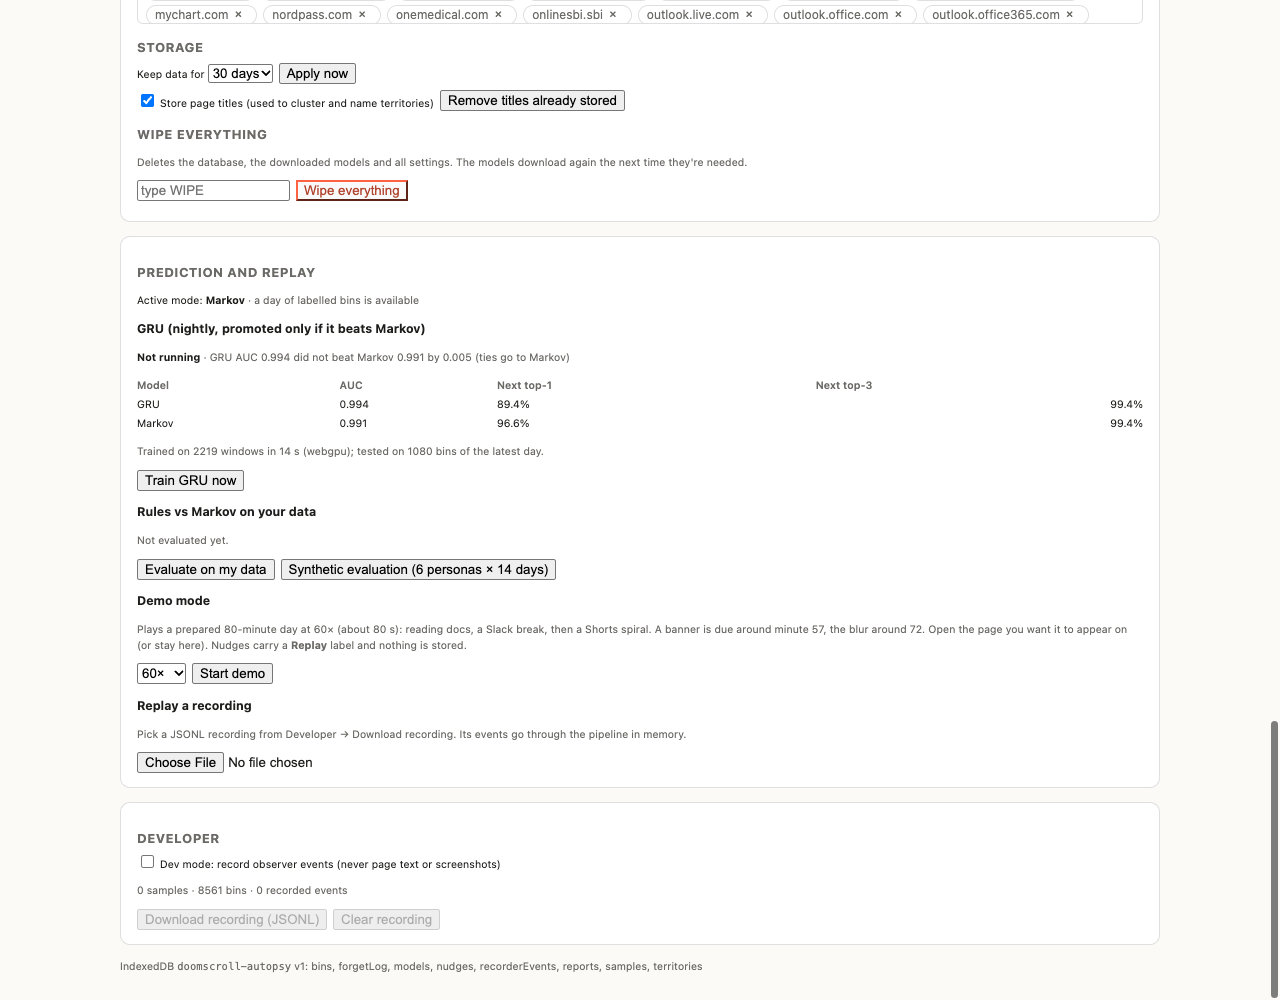
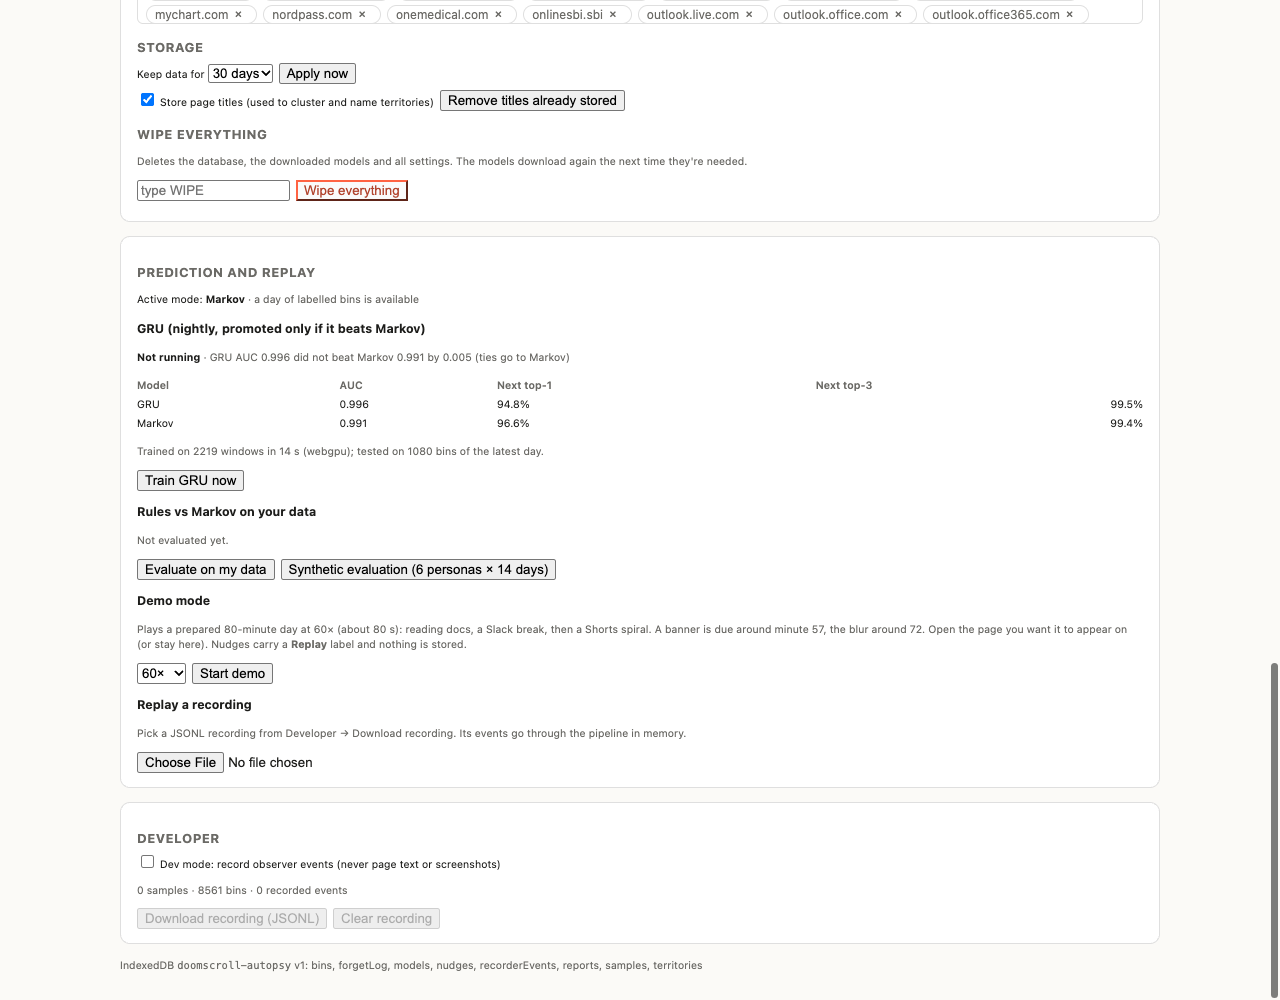
M8.5: forget a single capture
Dashboard lists the 20 most recent items; Forget deletes one sample, recomputes its territory and logs only the kind. Bins stay (they hold no item identity). D-65.

diff --git a/extension/entrypoints/dashboard/privacy.tsx b/extension/entrypoints/dashboard/privacy.tsx
@@ -1,5 +1,5 @@
 import { useEffect, useState } from 'preact/hooks';
-import { getAll } from '@/lib/db';
+import { getAll, getByTs, type SampleRecord } from '@/lib/db';
 import { send } from '@/lib/messaging';
 import { pauseUntil, type PauseOption } from '@/lib/observer/pause';
 import { addDomain, addKeyword, listEntries, removeEntry } from '@/lib/privacy/blocklist-edit';
@@ -37,6 +37,13 @@ export function Privacy() {
   const [filter, setFilter] = useState('');
   const [wipeText, setWipeText] = useState('');
   const [log, setLog] = useState<Array<{ ts: number; text: string }>>([]);
+  const [recent, setRecent] = useState<SampleRecord[]>([]);
+
+  const refreshRecent = async () => {
+    const now = Date.now();
+    const rows = (await getByTs('samples', now - 24 * 3600_000, now)) as SampleRecord[];
+    setRecent(rows.sort((a, b) => b.ts - a.ts).slice(0, 20));
+  };
 
   const refreshLog = async () =>
     setLog(
@@ -49,6 +56,7 @@ export function Privacy() {
   useEffect(() => {
     void getSettings().then(setSettings);
     void refreshLog();
+    void refreshRecent();
     return onSettingsChanged(setSettings);
   }, []);
 
@@ -89,6 +97,13 @@ export function Privacy() {
       const r = await send('background', 'privacy-forget-site', { site, alwaysSkip });
       setSite('');
       return describe(r) + (alwaysSkip ? ' The site is now on your blocklist.' : '');
+    });
+
+  const forgetOne = (id: number) =>
+    run(async () => {
+      const r = await send('background', 'privacy-forget-capture', { id });
+      await refreshRecent();
+      return r ? 'Forgot that item. Its territory was updated; the half-minute activity totals around it stay.' : 'That item was already gone.';
     });
 
   const saveBlocklist = (edits: Settings['blocklist']) => updateSettings({ blocklist: edits });
@@ -154,6 +169,37 @@ export function Privacy() {
           <input type="checkbox" checked={alwaysSkip} onChange={(e) => setAlwaysSkip(e.currentTarget.checked)} /> Always skip this site from now on
         </label>
         <button disabled={busy || !site.trim()} onClick={forgetSite}>Forget site</button>
+      </div>
+
+      <h2>Forget one item</h2>
+      <p class="muted">The 20 most recent items from the last day. Forgetting one deletes its stored vector and details and updates its territory; the half-minute activity totals around it stay (they hold no content).</p>
+      <div id="recent-items">
+        {recent.length === 0 ? (
+          <p class="muted">Nothing observed in the last day.</p>
+        ) : (
+          <table>
+            <tbody>
+              {recent.map((r) => (
+                <tr key={r.id}>
+                  <td class="muted">{new Date(r.ts).toLocaleTimeString([], { hour: '2-digit', minute: '2-digit' })}</td>
+                  <td style="text-align:left">
+                    {r.origin.replace(/^https?:\/\/(www\.)?/, '')}
+                    {r.path}
+                    {r.title ? <span class="muted"> · {r.title}</span> : null}
+                  </td>
+                  <td>
+                    <button disabled={busy} aria-label={`Forget item at ${new Date(r.ts).toLocaleTimeString()}`} onClick={() => void forgetOne(r.id!)}>
+                      Forget
+                    </button>
+                  </td>
+                </tr>
+              ))}
+            </tbody>
+          </table>
+        )}
+        <button disabled={busy} onClick={() => void refreshRecent()}>
+          Refresh list
+        </button>
       </div>
 
       <h2>Blocklist</h2>

diff --git a/extension/lib/privacy/privacy.test.ts b/extension/lib/privacy/privacy.test.ts
@@ -5,7 +5,7 @@ import { ensureReports } from '@/lib/metrics/service';
 import { binsFrom, territory } from '@/lib/metrics/testutil';
 import { dayStart } from '@/lib/metrics/time';
 import { addDomain, addKeyword, listEntries, normalizeDomain, removeEntry } from './blocklist-edit';
-import { forgetRange, forgetSite, originMatchesSite, siteKey } from './forget';
+import { forgetCapture, forgetRange, forgetSite, originMatchesSite, siteKey } from './forget';
 import { applyRetention, stripTitles } from './retention';
 import { DEFAULT_SETTINGS } from '@/lib/settings';
 
@@ -129,6 +129,40 @@ describe('forgetSite', () => {
 
   it('rejects something that is not a site', async () => {
     await expect(forgetSite('hello')).rejects.toThrow();
+  });
+});
+
+describe('forgetCapture', () => {
+  it('removes one sample, keeps the bins and the other samples, recomputes the territory, logs only the kind', async () => {
+    await seed();
+    const reels = (await getAll('samples')).filter((x) => x.territoryId === 'reels').sort((a, b) => a.ts - b.ts);
+    const binsBefore = await count('bins');
+    const centroidBefore = (await get('territories', 'reels'))!.centroid;
+    const r = await forgetCapture(reels[3]!.id!);
+    expect(r).toMatchObject({ samples: 1, bins: 0, nudges: 0, territoriesUpdated: 1, territoriesRemoved: 0 });
+    expect(await get('samples', reels[3]!.id!)).toBeUndefined();
+    expect((await getAll('samples')).filter((x) => x.territoryId === 'reels')).toHaveLength(14);
+    expect(await count('bins')).toBe(binsBefore);
+    const t = (await get('territories', 'reels'))!;
+    expect(t.size).toBe(14);
+    expect(t.centroid[1]).toBeCloseTo(centroidBefore[1]!, 6); // the other members point the same way
+    expect(await getAll('forgetLog')).toEqual([expect.objectContaining({ kind: 'capture' })]);
+    expect(Object.keys((await getAll('forgetLog'))[0]!).sort()).toEqual(['id', 'kind', 'ts']);
+  });
+
+  it('removes an unconfirmed territory when its last item goes, and keeps a confirmed one dormant', async () => {
+    await seed();
+    for (const x of (await getAll('samples')).filter((x) => x.territoryId === 'reels')) await forgetCapture(x.id!);
+    expect(await get('territories', 'reels')).toBeUndefined();
+    const news = (await getAll('samples')).filter((x) => x.territoryId === 'news');
+    for (const x of news) await forgetCapture(x.id!);
+    expect((await get('territories', 'news'))).toMatchObject({ size: 0, label: 'shallow' });
+  });
+
+  it('returns null for an item that is already gone', async () => {
+    await seed();
+    expect(await forgetCapture(999_999)).toBeNull();
+    expect(await getAll('forgetLog')).toEqual([]);
   });
 });
 

diff --git a/extension/lib/privacy/forget.ts b/extension/lib/privacy/forget.ts
@@ -145,6 +145,23 @@ export async function forgetSite(siteInput: string, now = Date.now()): Promise<F
   return cascade(removed, { kind: 'site', site }, now);
 }
 
+/**
+ * Forgets one captured item (PDD 11.4, Should): its sample (metadata and vector) is deleted and its
+ * territory's centroid, size and unconfirmed name are recomputed. The 30-second activity totals
+ * around it stay: bins hold velocity numbers for everything seen in that half minute and carry no
+ * item identity, so removing them would also erase other items' time. Returns null if it is gone.
+ */
+export async function forgetCapture(id: number, now = Date.now()): Promise<ForgetReport | null> {
+  const db = await openDb();
+  const sample = await db.get('samples', id);
+  if (!sample) return null;
+  const removed = emptyRemoved();
+  if (sample.territoryId) removed.territoryIds.add(sample.territoryId);
+  await db.delete('samples', id);
+  removed.samples = 1;
+  return cascade(removed, { kind: 'capture' }, now);
+}
+
 async function deleteByTs(store: 'nudges' | 'recorderEvents', range: IDBKeyRange): Promise<number> {
   const db = await openDb();
   const tx = db.transaction(store, 'readwrite');

diff --git a/extension/lib/privacy/background.ts b/extension/lib/privacy/background.ts
@@ -2,7 +2,7 @@ import type { createRouter } from '@/lib/messaging';
 import { isReclustering } from '@/lib/ml/territories';
 import { getSettings, updateSettings } from '@/lib/settings';
 import { addDomain } from './blocklist-edit';
-import { forgetRange, forgetSite, siteKey } from './forget';
+import { forgetCapture, forgetRange, forgetSite, siteKey } from './forget';
 import './messages';
 import { applyRetention, stripTitles } from './retention';
 import { wipeEverything } from './wipe';
@@ -39,6 +39,7 @@ export function registerPrivacy(router: Router): void {
       return forgetSite(req.site);
     }),
   );
+  router.register('privacy-forget-capture', (req) => exclusive(() => forgetCapture(req.id)));
   router.register('privacy-wipe', () => exclusive(() => wipeEverything()));
   router.register('privacy-retention', () => exclusive(async () => applyRetention((await getSettings()).retentionDays)));
   router.register('privacy-strip-titles', () => exclusive(async () => ({ cleared: await stripTitles() })));

diff --git a/extension/lib/privacy/messages.ts b/extension/lib/privacy/messages.ts
@@ -8,6 +8,8 @@ declare module '@/lib/messaging' {
     'privacy-forget-range': { request: { from: number; to: number }; response: ForgetReport };
     /** `alwaysSkip` also adds the site to the blocklist. */
     'privacy-forget-site': { request: { site: string; alwaysSkip: boolean }; response: ForgetReport };
+    /** Forget one captured item (a sample id). Null if it no longer exists. */
+    'privacy-forget-capture': { request: { id: number }; response: ForgetReport | null };
     'privacy-wipe': { request: void; response: WipeReport };
     /** Applies the configured retention now. */
     'privacy-retention': { request: void; response: RetentionReport };

diff --git a/PDD.md b/PDD.md
@@ -496,6 +496,8 @@ Synthetic but realistic. We generate *inputs* programmatically (plausible territ
 - **Cascade:** delete the samples and bins → recompute affected territory centroids → regenerate names if their inputs changed → exclude the data from the next training (optional "retrain now") → regenerate affected reports. The `forgetLog` records only *what kind* of thing was forgotten.
 - **As built (M5, D-57):** the cascade is implemented in `lib/privacy/forget.ts`; the dashboard offers last 20 minutes / last hour / today / custom range, forget a site (with *always skip*), a blocklist editor, a retention setting, a store-titles toggle (plus *remove titles already stored*) and a typed-confirmation wipe. "Retrain now" is not a separate button: the Markov model is refreshed as part of every forget.
 
+- **As built (M8, D-65):** *Forget one item* (Dashboard → Privacy) lists the 20 most recent items of the last day (site + path, and the title only if titles are stored); *Forget* deletes that one sample (details and vector), recomputes its territory (centroid, size, unconfirmed name; an emptied unconfirmed territory is removed, a confirmed one stays dormant) and logs only `kind: capture`. The 30-second activity totals around it stay: bins hold velocity numbers for everything seen in that half minute and no item identity, so deleting them would erase other items' time too. The UI says so.
+
 ### 11.5 Permissions (manifest)
 `storage`, `unlimitedStorage`, `offscreen`, `tabs`, `alarms`, `idle`, `scripting`, `host_permissions: ["<all_urls>"]`. The keyboard shortcut (Could) adds a `commands` manifest key; it is not a permission. The install warning ("read and change all your data on all websites") is unavoidable for this product. The onboarding page and the post explain it, and 11.1 is the answer to it.
 
@@ -694,6 +696,7 @@ Offer a post-mortem on DEV only with the owner's yes. Never publish anything wit
 | D-62 | **Attention map is drawn on demand, from a stratified sample** (M8, 2026-10-17): up to 1,500 vectors of the last 14 days, water-filled across territories so small ones stay visible; UMAP with cosine distance and a seeded RNG, run in the dashboard page (about a second or two for a few hundred dots; yields between epochs); new dependency `umap-js` | UMAP is quadratic-ish and a full 30 days would freeze the page; stratifying keeps rare territories on the map. On demand keeps the dashboard light | Precomputing nightly (stale after forget); t-SNE; PCA |
 | D-63 | **Topic tags feed the naming prompt** (M8, 2026-10-17): top 3 phrases per territory, cosine ≥ 0.30, refreshed before naming; the prompt format is unchanged (the schema and 194 of 600 training prompts already had `topicTags`), so no retrain | The training data covered tagged prompts, so the gate ("don't disturb the fine-tuned naming") is met by construction; verified by `probe:m6` (42 of 53 named, 4.3% autopsy fallback, no regression) and by real-vector tags in `probe:m8` | Showing tags in the UI only; retraining |
 | D-64 | **Breathing pause design** (M8, 2026-10-17): step 3 is a 30 s guided overlay (3 × 5 s in, 5 s out), skippable, and always ends by asking *Back to it* / *Keep going* (so every nudge still gets a logged response); *Skip* and Escape log "snooze"; the ladder reaches it only when the user's highest step is 3 (default stays 2); a new Dashboard → Nudges section sets sensitivity and highest step | The PDD lists the breathing step as optional, so it is opt-in. Ending on a decision keeps the response log (a training feature) complete | Auto-closing after 30 s; making step 3 the default |
+| D-65 | **Forgetting one capture removes the sample, not the bins** (M8, 2026-10-17): the item's stored vector and metadata go, its territory is recomputed, only the kind is logged; bins (anonymous velocity totals per half minute) stay and the UI says so | A bin has no origin or item id, and one bin summarises several items; removing it would silently delete other items' time and distort deep-block metrics. Site forget does remove covered bins because every item in them is being forgotten | Deleting the item's overlapping bins; hiding rather than deleting |
 
 (D-37 to D-39 intentionally unused.)
 

diff --git a/docs/showcase/M8/CAPTURE.md b/docs/showcase/M8/CAPTURE.md
@@ -4,3 +4,4 @@
 2. **GRU vs Markov** (Dashboard → Prediction and replay → GRU panel, "Train GRU now"): capture the verdict table. Reference: `dashboard-gru.png`; the synthetic table is `gru-vs-markov.md`.
 3. **Topic tags**: Dashboard → Territories → "Name territories with Gemma"; each row shows "about: …" under the name. Capture a visual territory (Reels/Shorts) whose tags say what it is really about: the cross-modal point (an image-and-text embedding explaining a feed the model never read).
 4. **Breathing pause**: Dashboard → Nudges → highest step 3; then Prediction and replay → Demo mode, or wait for a real step 2 and press *Take a breath*. Capture the overlay (`nudge-breathing.png` is the headless reference) and a 10 s GIF of the orb.
+5. **Forget one item**: Dashboard → Privacy → "Forget one item"; capture the list and the confirmation line (`dashboard-forget-item.png` is the headless reference).
